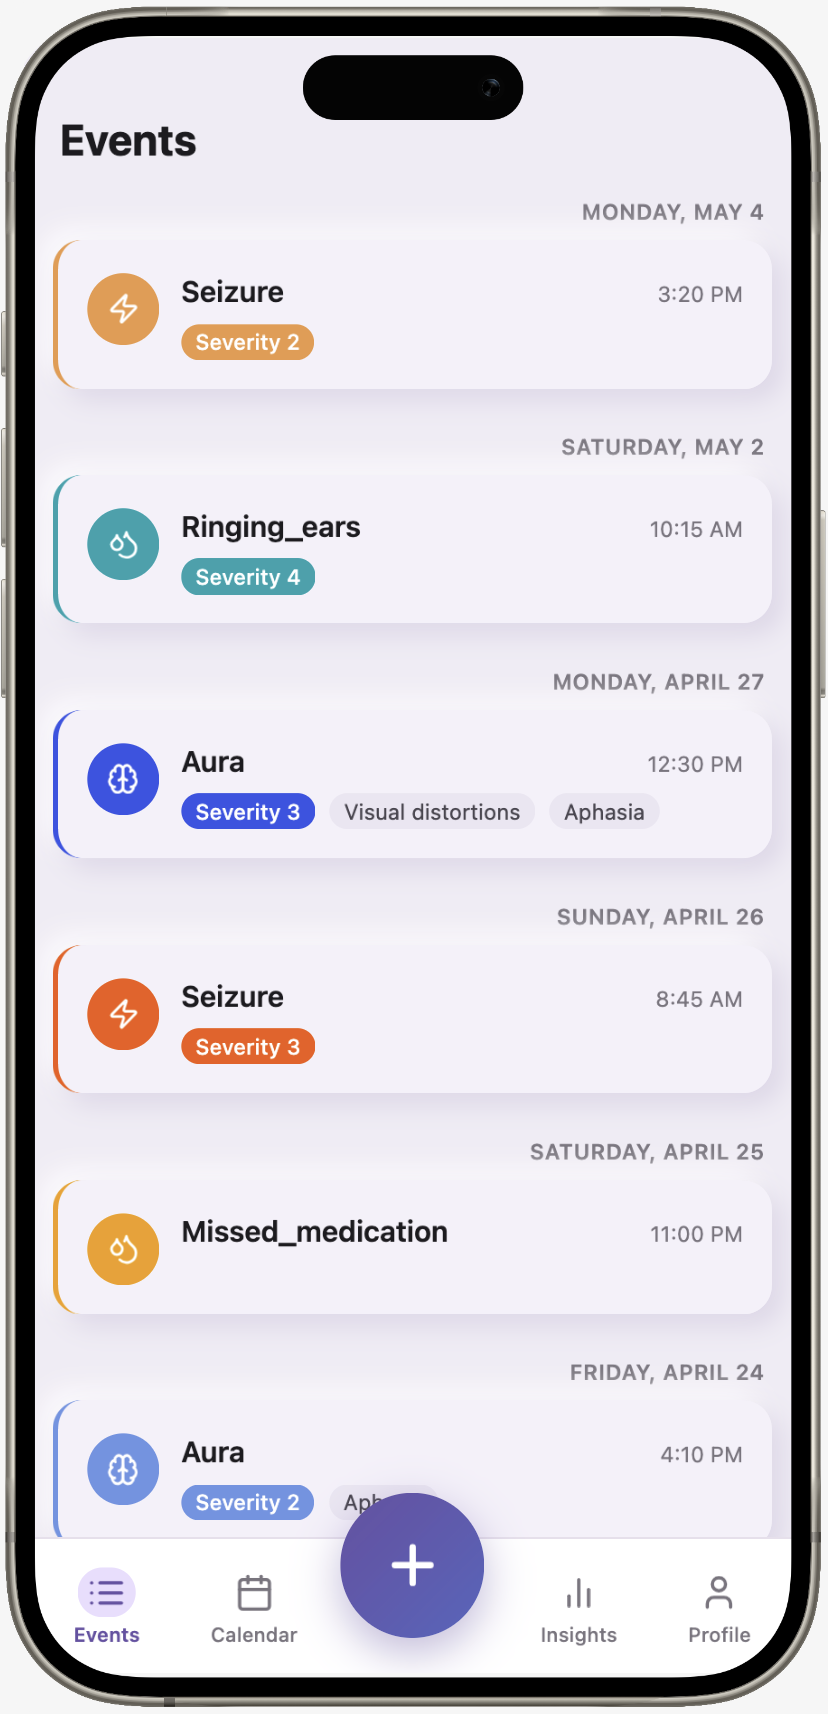
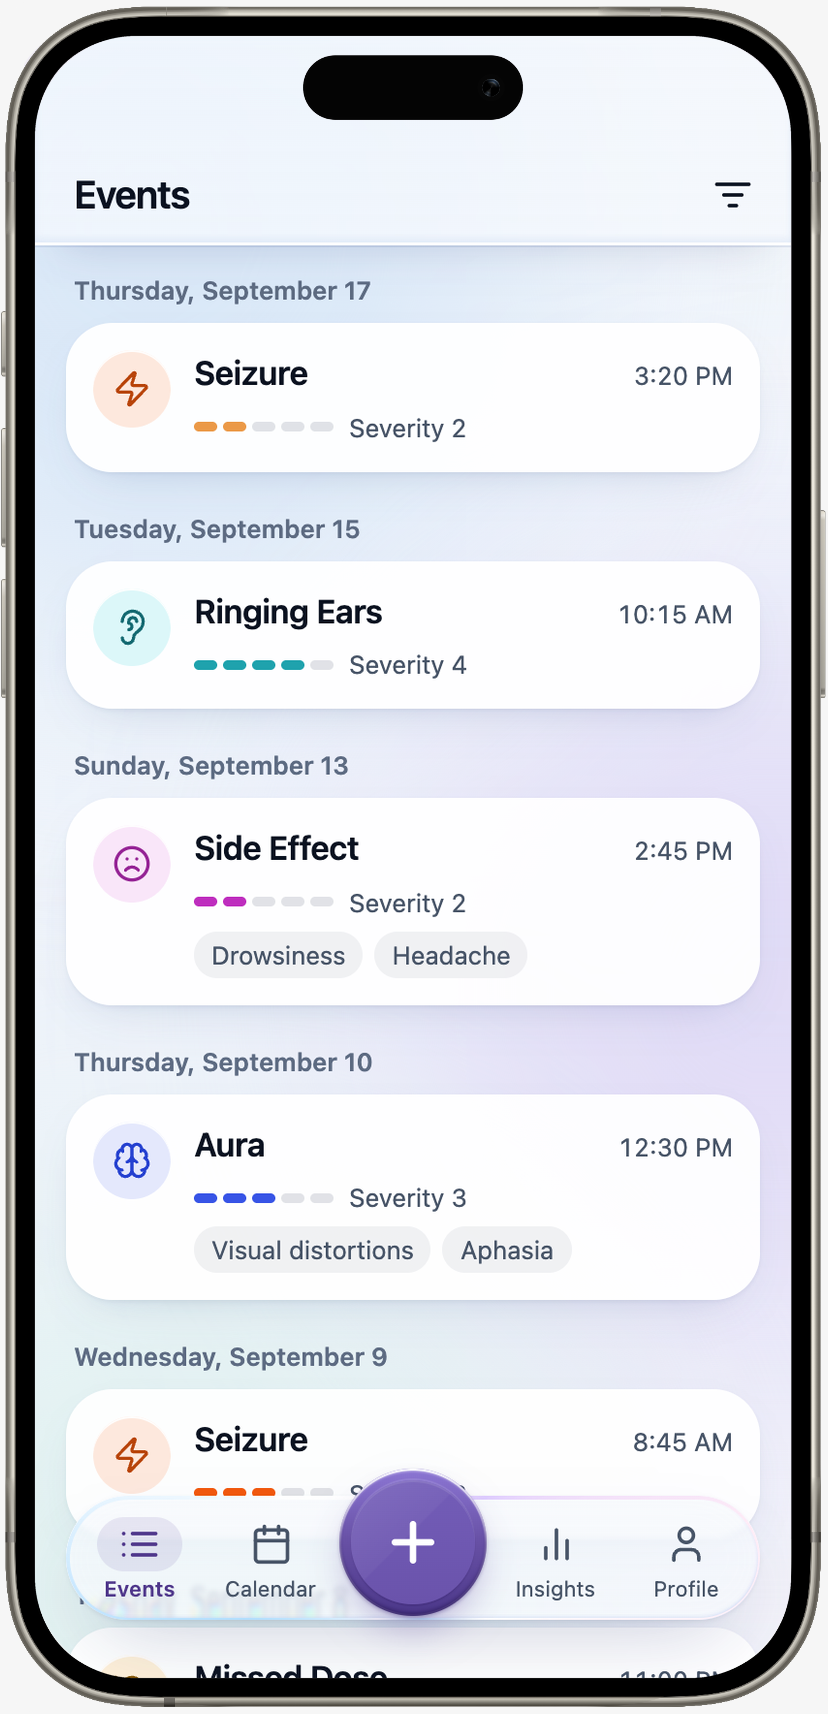
epilog case study: match the glass redesign
- Screenshots re-shot from the live demo after the glass restyle:
  Events hero (in the existing iPhone frame, with iPhone safe areas),
  type selection with the big Seizure/Aura tiles, aura severity and
  duration with the new meter, aura characteristics, Insights and Export
- Copy fixes (EN + DE): the card label says Events screen, not Insights;
  "Missed Dose" (the app's label, not "Missed Medication"); the Insights
  tab is "AI", not "AI Analysis"; there is no Export tab, so the PDF
  instruction now goes Insights > Export > "Share export" with "Doctor
  report (PDF)" checked by default
- The two touched EN sentences also lose an "X, not Y" tail and a
  clause-colon list; Vale passes

The "no scrolling" claim stays: every Add step now fits a 390x844 screen.

Changed region(s): [[0.0302, 0.0618, 0.936, 0.9895], [0.7548, 0.8349, 0.9058, 0.8658]]

diff --git a/src/data/cases.ts b/src/data/cases.ts
@@ -107,7 +107,7 @@ export const CASES: CaseEntry[] = [
         "An app built for one user with epilepsy. It's used daily to log events as the user experiences them. The AI Insights built into the app used the tracked data to surface an adverse drug interaction. A drug prescribed by the user's primary care physician was inhibiting the absorption of the anti-epileptic drugs the user depends on. This information was brought to the neurologist and they confirmed the interaction. The neurologist independently arrived at the same treatment direction the AI had suggested.",
         'Eine App für einen einzigen Nutzer mit Epilepsie. Wird täglich genutzt, um Ereignisse direkt nach dem Erleben zu protokollieren. Die in die App eingebauten KI-Insights haben aus den Daten eine schädliche Wechselwirkung erkannt. Ein vom Hausarzt verschriebenes Medikament hemmte die Aufnahme der Anti-Epileptika, auf die der Nutzer angewiesen ist. Diese Information wurde dem Neurologen vorgelegt, und er hat die Wechselwirkung bestätigt. Der Neurologe ist unabhängig zur selben Behandlungsrichtung gekommen, die die KI vorgeschlagen hatte.',
       ),
-      visualLabel: t('EPILOG · INSIGHTS SCREEN', 'EPILOG · INSIGHTS-SCREEN'),
+      visualLabel: t('EPILOG · EVENTS SCREEN', 'EPILOG · EVENTS-SCREEN'),
       visualImage: '/images/cases/epilog/epilog-events-framed.png',
       visualImageAlt: t(
         'Epilog app Events screen in an iPhone frame, listing tracked seizures and auras',
@@ -225,8 +225,8 @@ export const CASES: CaseEntry[] = [
           ),
           tryIts: [
             t(
-              'Tap the + button and look at the event types. "Missed Medication" is a first-class event, not a setting buried in a menu. That\'s the entire medication tracking system.',
-              'Tippe auf den +-Button und schau dir die Ereignistypen an. "Medikation verpasst" ist ein Ereignis erster Klasse, keine Einstellung, die in einem Menü vergraben ist. Das ist das gesamte Medikamenten-Tracking-System.',
+              'Tap the + button and look at the event types. "Missed Dose" sits among them as an event of its own, where most apps would bury a setting in a menu. That\'s the entire medication tracking system.',
+              'Tippe auf den +-Button und schau dir die Ereignistypen an. "Verpasste Dosis" steht dort als eigenes Ereignis, wo die meisten Apps eine Einstellung in einem Menü vergraben würden. Das ist das gesamte Medikamenten-Tracking-System.',
             ),
           ],
         },
@@ -257,12 +257,12 @@ export const CASES: CaseEntry[] = [
           ),
           tryIts: [
             t(
-              'Open the Insights tab and switch to "AI Analysis." Tap "Analyze my data" to see the kind of output the tool produces. The demo uses a curated dataset, but the structure mirrors real results.',
-              'Öffne den Insights-Tab und wechsle zu "KI-Analyse". Tippe auf "Meine Daten analysieren", um die Art von Ausgabe zu sehen, die das Tool erzeugt. Die Demo verwendet einen kuratierten Datensatz, aber die Struktur spiegelt echte Ergebnisse wider.',
+              'On the Insights screen, switch to the "AI" tab and tap "Analyze my data" to see the kind of output the tool produces. The demo uses a curated dataset, but the structure mirrors real results.',
+              'Wechsle auf dem Insights-Screen zum Tab "AI" und tippe auf "Meine Daten analysieren", um die Art von Ausgabe zu sehen, die das Tool erzeugt. Die Demo verwendet einen kuratierten Datensatz, aber die Struktur spiegelt echte Ergebnisse wider.',
             ),
             t(
-              'Head to the Export tab and tap "Export PDF." The generated report is structured for a neurologist visit: findings, medication history, and event timeline in a format that respects their time.',
-              'Gehe zum Export-Tab und tippe auf "PDF exportieren". Der erzeugte Bericht ist für einen Neurologen-Besuch strukturiert: Befunde, Medikationsverlauf und Ereigniszeitlinie in einem Format, das ihre Zeit respektiert.',
+              'On the Insights screen, tap Export. "Doctor report (PDF)" is already checked, so tap "Share export." The report is laid out for a neurologist visit, with findings, medication history, and the event timeline in a format that respects their time.',
+              'Tippe auf dem Insights-Screen auf "Export". "Doctor report (PDF)" ist bereits ausgewählt, also tippe auf "Share export". Der Bericht ist für einen Neurologen-Besuch aufgebaut, mit Befunden, Medikationsverlauf und Ereigniszeitlinie in einem Format, das ihre Zeit respektiert.',
             ),
           ],
           screenshots: {
